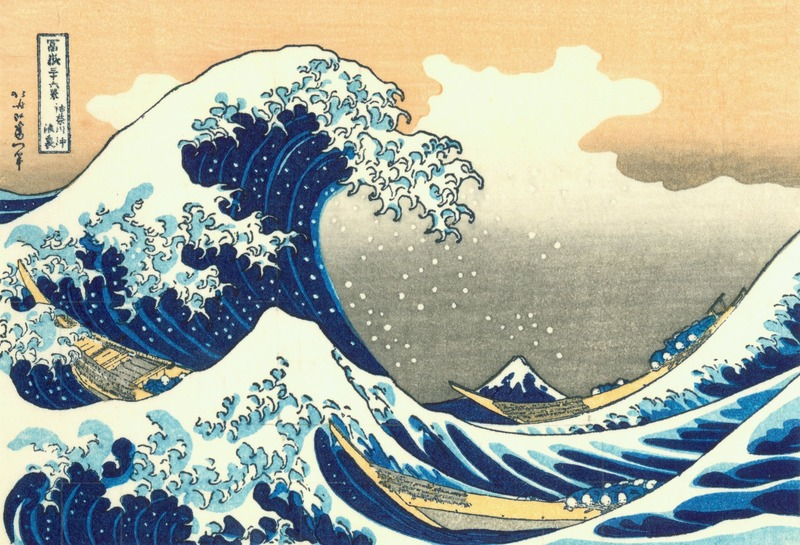
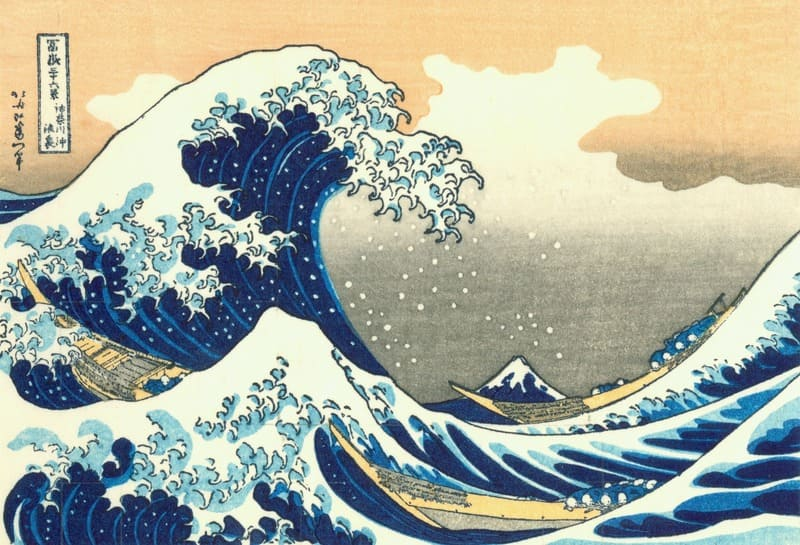
页面速度优化
1.用date-fns代替全局moment
2.用cdn加载highlight.js
3.懒加载路由
4.压缩图片

diff --git a/src/components/richText.vue b/src/components/richText.vue
@@ -4,7 +4,7 @@
 
 <script>
 import marked from 'marked';
-import highlight from 'highlight.js';
+// import highlight from 'highlight.js';
 import 'highlight.js/styles/night-owl.css';
 
 export default {
@@ -19,7 +19,7 @@ export default {
             marked.setOptions({
                 renderer: new marked.Renderer(),
                 highlight: function (code) {
-                    return highlight.highlightAuto(code).value;
+                    return hljs.highlightAuto(code).value;
                 },
                 pedantic: false,
                 gfm: true,
@@ -30,7 +30,8 @@ export default {
                 smartypants: false,
                 xhtml: false
             });
-            return marked(this.text).replace(/<pre>/g, "<pre class='hljs'>");
+            let text = this.text.replace(/\\"/g, "\"").replace(/\\'/g, "'");
+            return marked(text).replace(/<pre>/g, "<pre class='hljs'>");
         }
     }
 }

diff --git a/src/js/global.js b/src/js/global.js
@@ -1,4 +1,13 @@
 import axios from 'axios';
+import {
+    format,
+    formatRelative
+} from 'date-fns';
+import {
+    ja,
+    enUS,
+    zhCN
+} from 'date-fns/locale';
 
 const host = "http://localhost:9000"
 
@@ -14,5 +23,21 @@ export function call(api, methods, params) {
     });
     else if (methods.toUpperCase() == "PUT") return axios.put(host + api, {
         params
+    });
+};
+
+export function f(date, formatStr) {
+    return format(date, formatStr);
+};
+
+export function fromNow(date, locale) {
+    if (locale == "zh_cn") return formatRelative(date, new Date(), {
+        locale: zhCN
+    });
+    else if (locale == "ja") return formatRelative(date, new Date(), {
+        locale: ja
+    });
+    else return formatRelative(date, new Date(), {
+        locale: enUS
     });
 };

diff --git a/src/router/index.js b/src/router/index.js
@@ -1,13 +1,13 @@
 import Vue from 'vue'
 import VueRouter from 'vue-router'
 
-import Home from './../pages/Home';
-import NotFound from './../pages/404';
-import About from './../pages/About';
-import ArticleList from './../pages/ArticleList';
-import Article from './../pages/Article';
-import Login from './../pages/Login';
-import Blink from './../pages/Blink';
+const Home = () => import('./../pages/Home');
+const NotFound = () => import('./../pages/404');
+const About = () => import('./../pages/About');
+const ArticleList = () => import('./../pages/ArticleList');
+const Article = () => import('./../pages/Article');
+const Login = () => import('./../pages/Login');
+const Blink = () => import('./../pages/Blink');
 
 Vue.use(VueRouter)
 

diff --git a/src/components/blinkItem.vue b/src/components/blinkItem.vue
@@ -8,7 +8,7 @@
             <el-image fit="cover" v-for="(img, i) in blink.image" :key="i" :src="img" :preview-src-list="blink.image"></el-image>
         </div>
         <div class="blink-item-info" v-if="blink.replies">
-            <i>{{ $moment(blink.time).format("YYYY/MM/DD HH:mm:ss") }}</i>
+            <i>{{ $g.fromNow(blink.time, $i18n.locale) }}</i>
             <el-button type="text" size="mini" @click="onClick_toggleReply">{{ $t("message.comment") }}({{ blink.replies.length }})</el-button>
         </div>
     </div>

diff --git a/src/main.js b/src/main.js
@@ -7,13 +7,13 @@ import ElementUI from 'element-ui';
 import './style/theme/index.css';
 // import 'element-ui/lib/theme-chalk/display.css';
 import i18n from './i18n/i18n';
-import moment from 'moment';
+// import moment from 'moment';
 import * as g from './js/global';
 
 Vue.use(ElementUI);
-moment.locale(i18n.locale);
+// moment.locale(i18n.locale);
 
-Vue.prototype.$moment = moment;
+// Vue.prototype.$moment = moment;
 Vue.prototype.$g = g;
 Vue.config.productionTip = false
 

diff --git a/src/pages/Article.vue b/src/pages/Article.vue
@@ -12,7 +12,7 @@
                     <h4 v-if="article.subTitle">{{ article.subTitle }}</h4>
                 </el-col>
                 <el-col class="article-info-detail" :span="8" :xs="24">
-                    <span>{{ $moment(article.time).format("YYYY/MM/DD HH:mm:ss") }}</span>
+                    <span>{{ $g.f(article.time, "yyyy/MM/dd HH:mm:ss") }}</span>
                 </el-col>
             </el-row>
             <rich-text :text="article.content"></rich-text>

diff --git a/src/components/articleComment.vue b/src/components/articleComment.vue
@@ -8,7 +8,7 @@
             <p>{{ reply.user.name }}</p>
             <p v-if="reply.replyUser">{{ $t("message.reply", {0: reply.replyUser.name}) }}</p>
             <div class="flex-gap"></div>
-            <i>{{ $moment(reply.replyTime).fromNow() }}</i>
+            <i>{{ $g.f(reply.replyTime, "yyyy/MM/dd") }}</i>
         </div>
         <div class="comment-right-main" v-if="reply.content" v-html="replyContent"></div>
         <div class="comment-right-footer">

diff --git a/src/components/articleListItem.vue b/src/components/articleListItem.vue
@@ -5,7 +5,7 @@
     <p v-show="article.summary">{{ article.summary }}</p>
     <div class="list-item-footer">
         <router-link :to="{ name: 'Article', params: { id: article._id } }">{{ $t("message.showAll") }}</router-link>
-        <i>{{ $moment(article.time).format("YYYY/MM/DD HH:mm:ss") }}</i>
+        <i>{{ $g.f(article.time, "yyyy/MM/dd HH:mm:ss") }}</i>
     </div>
 </div>
 </template>

diff --git a/public/index.html b/public/index.html
@@ -13,6 +13,7 @@
       <strong>We're sorry but <%= htmlWebpackPlugin.options.title %> doesn't work properly without JavaScript enabled. Please enable it to continue.</strong>
     </noscript>
     <div id="app"></div>
+    <script src="https://cdn.bootcss.com/highlight.js/9.18.1/highlight.min.js"></script>
     <!-- built files will be auto injected -->
   </body>
 </html>

diff --git a/src/components/mainMenu.vue b/src/components/mainMenu.vue
@@ -76,7 +76,7 @@ export default {
         onClick_changeLocale: function (command) {
             localStorage.setItem("lang", command);
             this.$i18n.locale = command;
-            this.$moment.locale(command);
+            // this.$moment.locale(command);
         }
     }
 }
